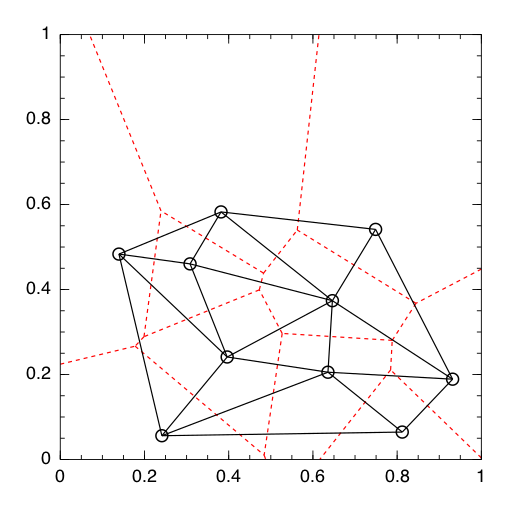
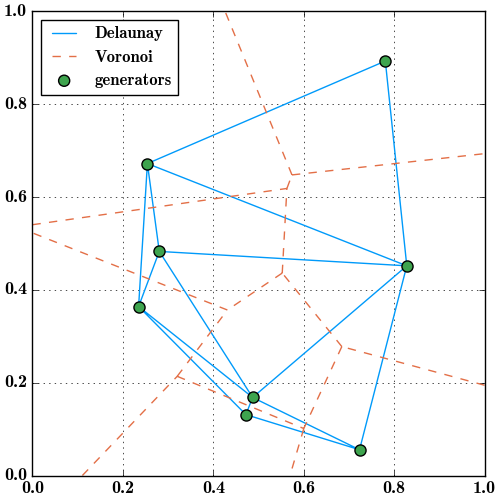
Window is now third argument instead of optional
Using Plots for figures.
Internal renaming of variables.

diff --git a/README.md b/README.md
@@ -18,7 +18,7 @@ D = deldir(x, y)
 
 The output from `deldir` is a struct with three DataFrames, one for the topology of the Delaunay triangulation, one for topology of the Voronoi tesselation and a summary mainly related to the area of the triangles and Voronoi cells.
 
-By default, `deldir` works with points in the unit rectangle, but other bounding rectangles can be specified as an optional argument.
+By default, `deldir` works with points in the unit rectangle, but other bounding rectangles can be specified as a third argument.
 
 The area of the Voronoi cells are also available directly with the function `voronoiarea`.
 
@@ -29,13 +29,13 @@ Dx, Dy = delaunayedges(D)
 Vx, Vy = voronoiedges(D)
 ```
 
-Using the results from above this can be plotted with e.g. Winston:
+Using the results from above this can be plotted using e.g. the [Plots package](https://github.com/tbreloff/Plots.jl):
 
 ```julia
-using Winston
-plot(x, y, "o")
-oplot(Vx, Vy, "r--")
-oplot(Dx, Dy)
+using Plots
+scatter(x, y, xlim=(0,1), ylim=(0,1), markersize=6, label="generators")
+plot!(Dx, Dy, label="Delaunay")
+plot!(Vx, Vy, style=:dash, label="Voronoi")
 ```
 
 One realization looks like the following.
@@ -78,8 +78,8 @@ The comparison plot is made with
 
 ```julia
 julia> versioninfo()
-Julia Version 0.4.0
-Commit 0ff703b (2015-10-08 06:20 UTC)
+Julia Version 0.5.0
+Commit 3c9d753 (2016-09-19 18:14 UTC)
 Platform Info:
   System: Linux (x86_64-linux-gnu)
   CPU: Intel(R) Core(TM) i7-3720QM CPU @ 2.60GHz
@@ -87,7 +87,7 @@ Platform Info:
   BLAS: libopenblas (USE64BITINT DYNAMIC_ARCH NO_AFFINITY Sandybridge)
   LAPACK: libopenblas64_
   LIBM: libopenlibm
-  LLVM: libLLVM-3.3
+  LLVM: libLLVM-3.7.1 (ORCJIT, ivybridge)
 ```
 
 
